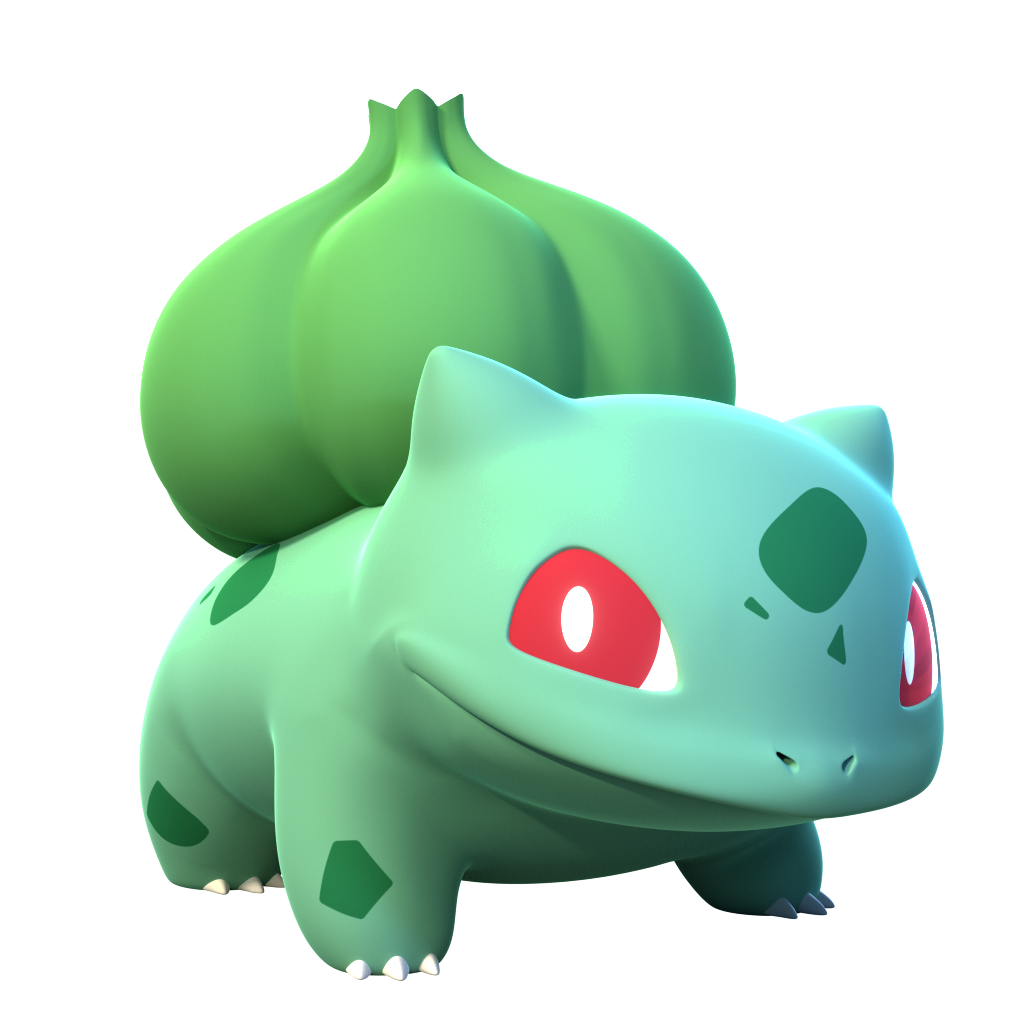
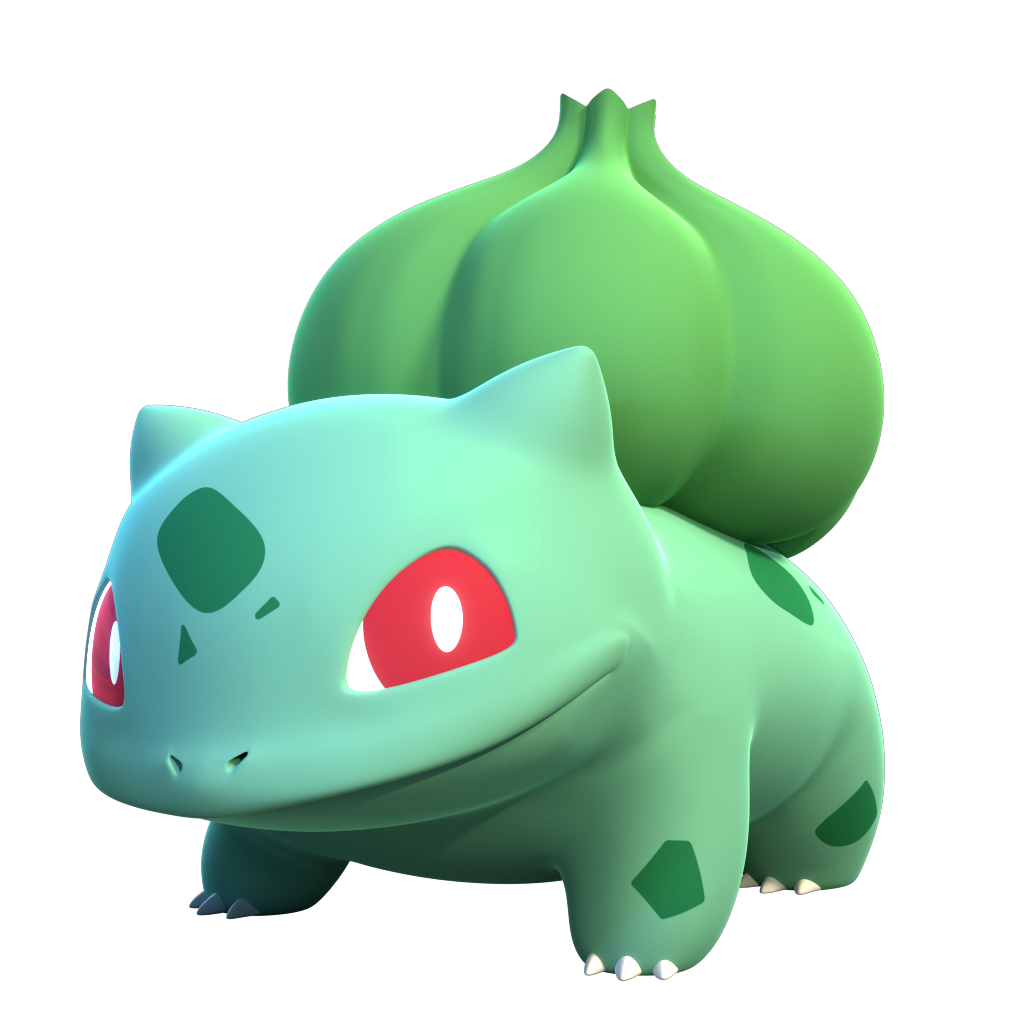
correccion de algunas imagenes que estaban al reves

diff --git a/combate-criaturas/PantallaDuelo.java b/combate-criaturas/PantallaDuelo.java
@@ -20,7 +20,7 @@ public class PantallaDuelo extends World {
         uiAtaques = new UIAtaques(criaturas);
         addObject(uiAtaques, 350, 300);
 
-        GreenfootImage imagenFondo = new GreenfootImage("fondo.png");
+        GreenfootImage imagenFondo = new GreenfootImage("fondoPokemon2.png");
         getBackground().drawImage(imagenFondo, 0, 0);
 
         ronda();
@@ -29,14 +29,14 @@ public class PantallaDuelo extends World {
     private void agregarCriaturas() {
         // Jugador
         criaturas[0] = new Pikachu("PikaPika");
-        // criaturas[1] = new Squirtle("Tortuguita");
-        criaturas[1] = new Bulbasaur("Saur");
+        criaturas[1] = new Squirtle("Tortuguita");
+        // criaturas[1] = new Bulbasaur("Saur");
 
         // Rival
-        // criaturas[2] = new Bulbasaur("Saur", true);
-        criaturas[2] = new Squirtle("Tortuguita", true);
-        // criaturas[3] = new Eevee("Eevee", true);
-        criaturas[3] = new Charmander("Char", true);
+        criaturas[2] = new Bulbasaur("Saur", true);
+        // criaturas[2] = new Squirtle("Tortuguita", true);
+        criaturas[3] = new Eevee("Eevee", true);
+        // criaturas[3] = new Charmander("Char", true);
         // criaturas[3] = new Chikorita("Chiko", true);
 
         addObject(criaturas[0], 100, 80);

diff --git a/combate-criaturas/Eevee.java b/combate-criaturas/Eevee.java
@@ -67,7 +67,7 @@ public class Eevee extends Criatura
         int dañoRecibido;
         String nombreAtaque = this.getNombresAtaque()[3];;
         
-        int cantidadDeAtaques = this.estado != Estado.SALUDABLE ? 1 : 2;
+        int cantidadDeAtaques = this.estado == Estado.SALUDABLE ? 1 : 2;
         
         for(int i = 0; i < cantidadDeAtaques; i++){
             dañoRecibido = otro.recibirDaño(this);
